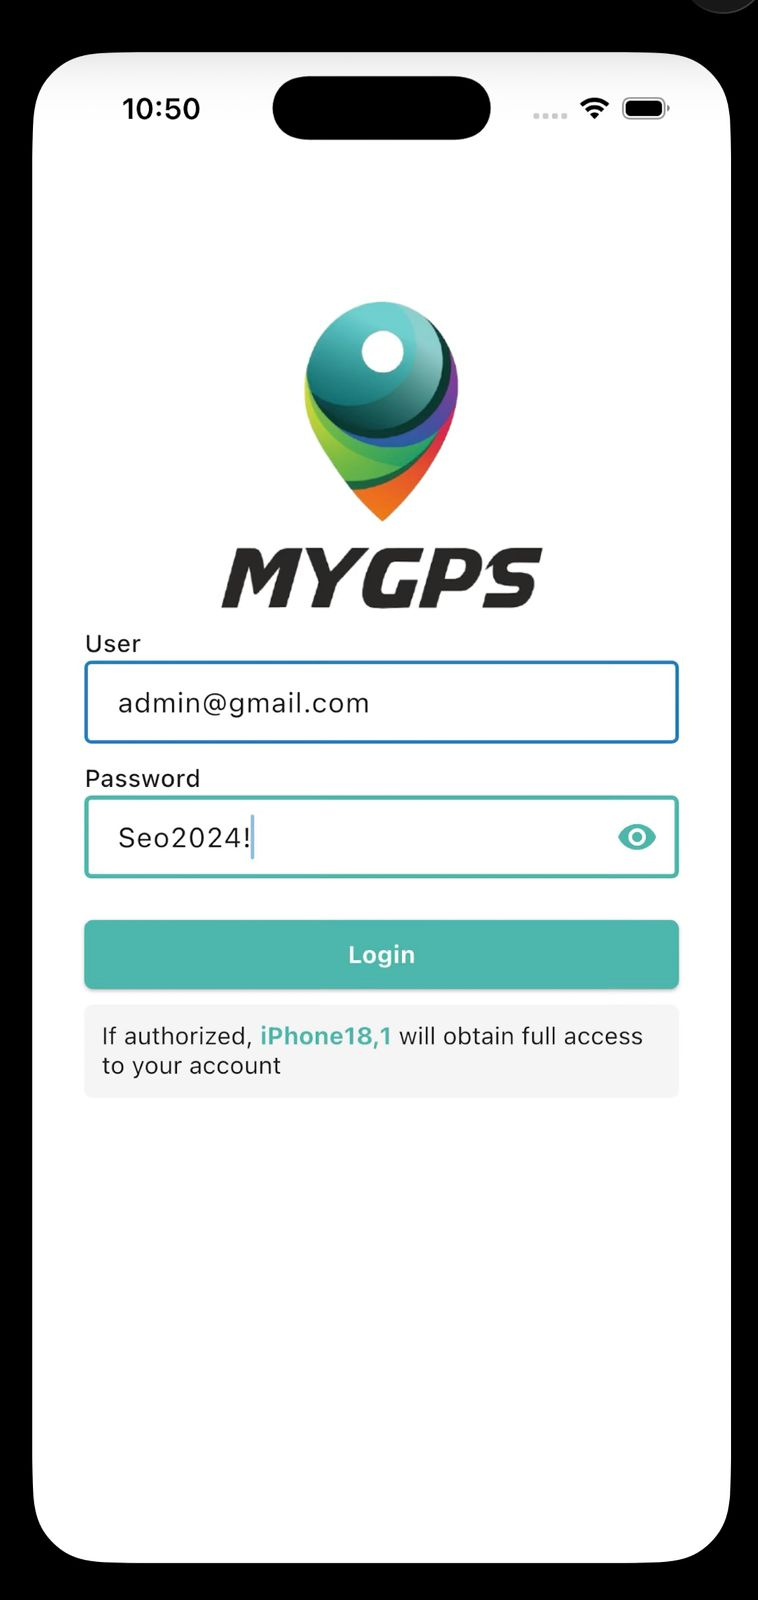
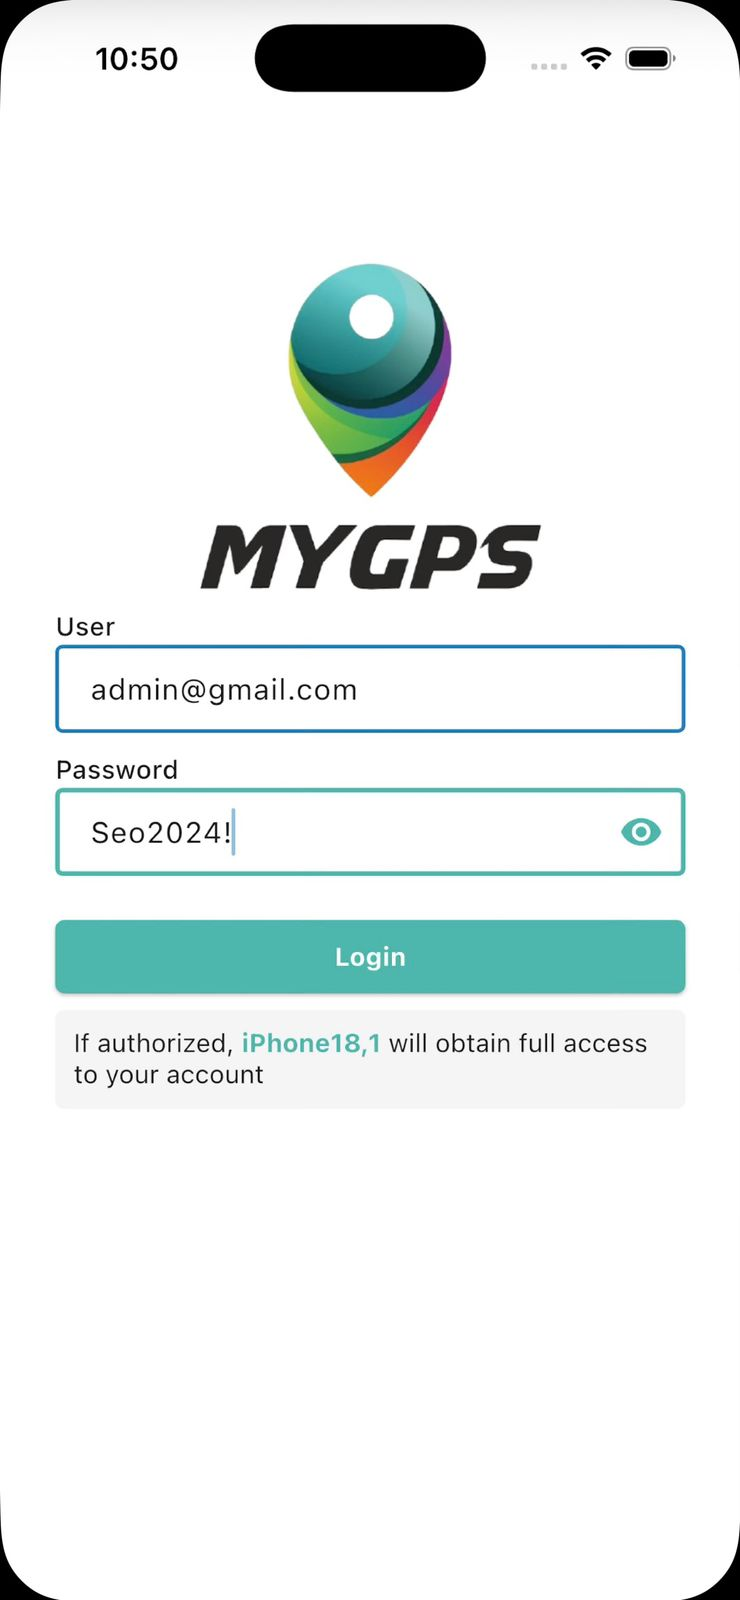
edit in app's page

Changed region(s): [[0.0, 0.0, 1.0, 1.0]]

diff --git a/app.html b/app.html
@@ -286,11 +286,11 @@
     .screenshot-img {
       width: 100%;
       max-width: 280px;
-      height: 500px;
-      object-fit: cover;
-      border-radius: 30px;
-      margin-bottom: 20px;
-      box-shadow: 0 10px 30px rgba(0,0,0,0.15);
+      height: 520px;
+      object-fit: contain;   /* prevents cropping */
+      display: block;
+      margin: 0 auto 20px;
+      border-radius: 20%; 
     }
 
     /* App Features */
@@ -597,8 +597,8 @@
         <div class="col-md-4">
           <div class="step-card">
             <div class="step-number">2</div>
-            <h4>Connect Your Device</h4>
-            <p>Pair your GPS tracker with the app using the simple QR code scan or device ID. Activation takes less than a minute.</p>
+            <h4>Login to the App</h4>
+            <p>Open the MYGPS app and log in using your registered mobile number starting with 91 and your password is Admin123.</p>
           </div>
         </div>
 
@@ -621,17 +621,17 @@
         <div class="col-md-4">
           <div class="screenshot-card">
             <div class="screenshot-img" style="background: transparent; align-items: center; justify-content: center; color: white; font-size: 3rem;">
-              <i><img src="Mobile_1.PNG" alt="Map" class="screenshot-img"></i>
+              <i><img src="Mobile_1.jpeg" alt="Map" class="screenshot-img"></i>
             </div>
-            <h5>Live Map View</h5>
-            <p>Track all your devices on an interactive map with real-time updates and smooth animations.</p>
+            <h5>Login Page View</h5>
+            <p>Open the MYGPS app and log in using your registered mobile number starting with 91 and your password is Admin123.</p>
           </div>
         </div>
 
         <div class="col-md-4">
           <div class="screenshot-card">
             <div class="screenshot-img" style="background: transparent; align-items: center; justify-content: center; color: white; font-size: 3rem;">
-              <i><img src="Mobile_2.PNG" alt="Dashboard" class="screenshot-img"></i>
+              <i><img src="Mobile_2.jpeg" alt="Dashboard" class="screenshot-img"></i>
             </div>
             <h5>Dashboard Analytics</h5>
             <p>View comprehensive statistics, reports, and insights about your tracked devices at a glance.</p>
@@ -641,7 +641,7 @@
         <div class="col-md-4">
           <div class="screenshot-card">
             <div class="screenshot-img" style="background: transparent; align-items: center; justify-content: center; color: white; font-size: 3rem;">
-              <i><img src="Mobile_3.PNG" alt="Smart Alerts" class="screenshot-img"></i>
+              <i><img src="Mobile_3.jpeg" alt="Smart Alerts" class="screenshot-img"></i>
             </div>
             <h5>Smart Tools</h5>
             <p>Configure custom alerts and notifications to stay informed about important events instantly.</p>
